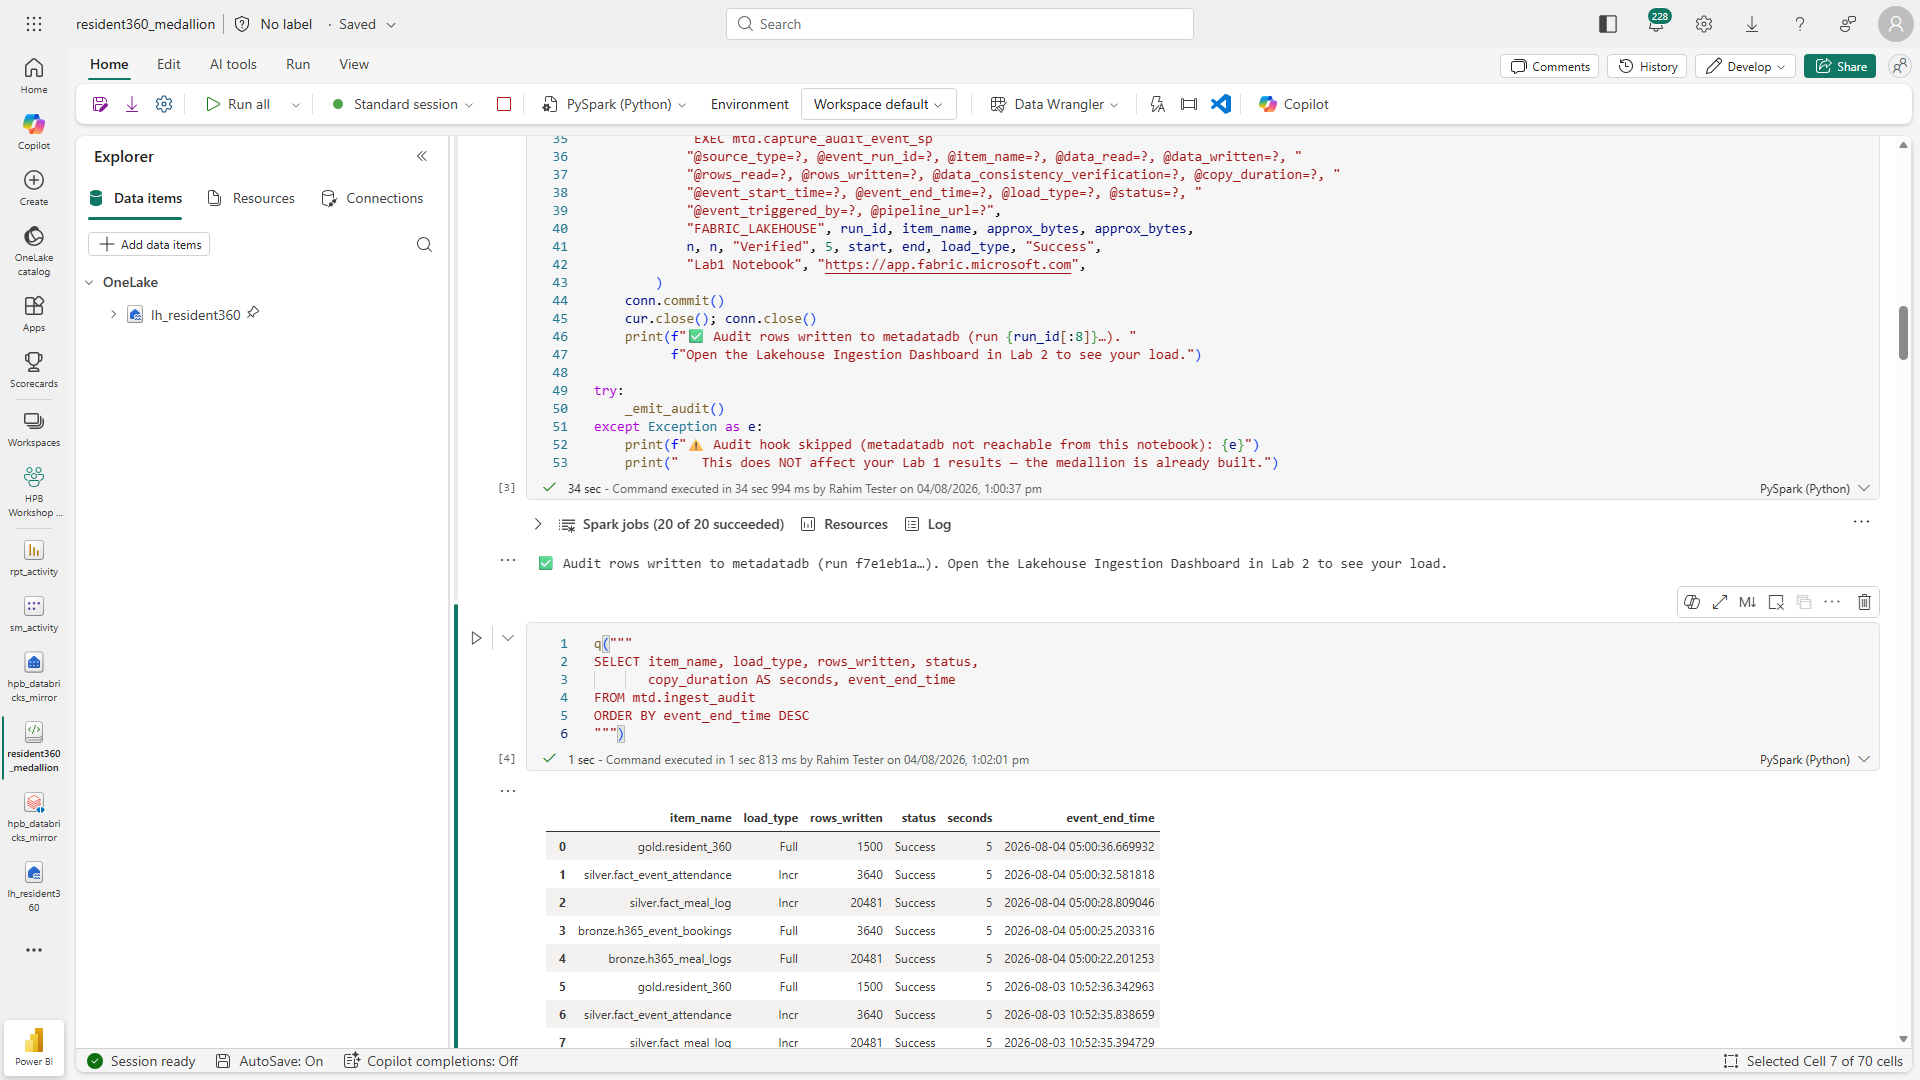
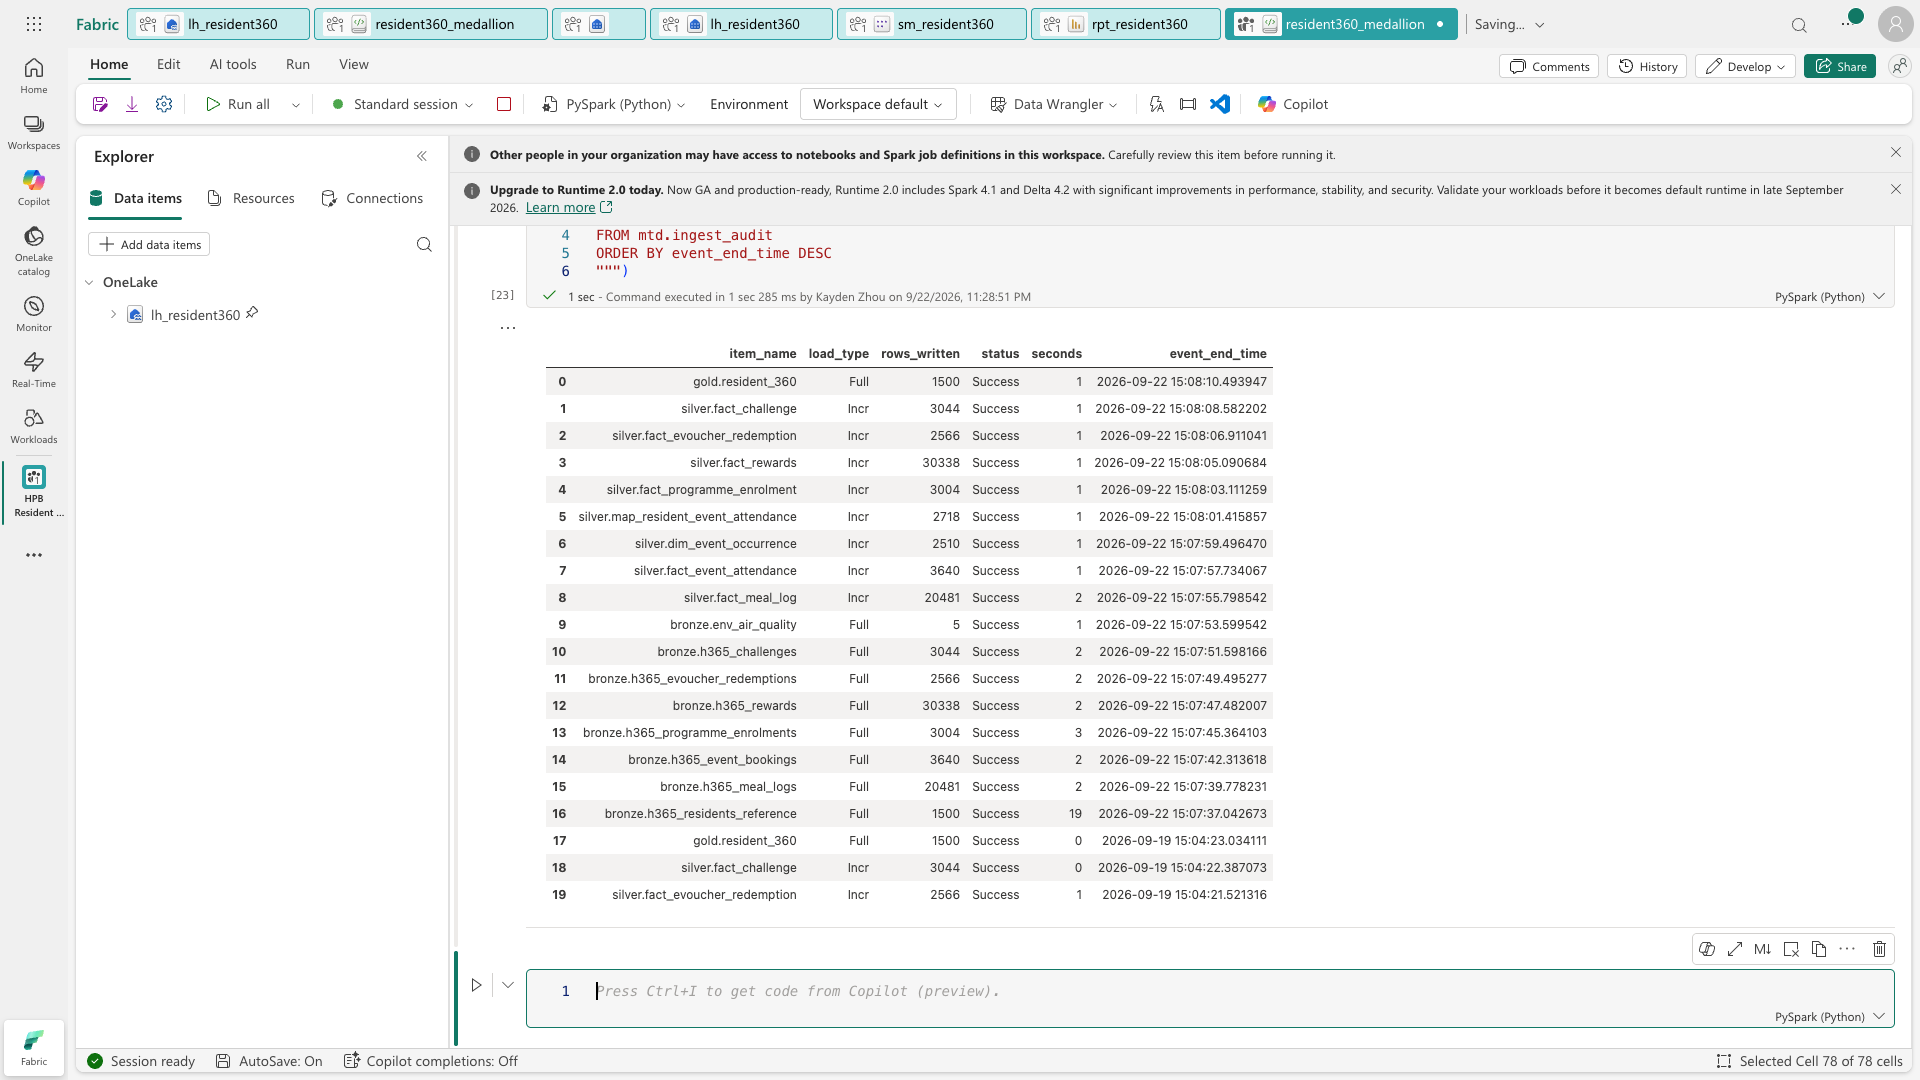
docs(lab2): recapture as participant; remove leaked coordinates; cap audit read
All four Lab 2 notebook/lineage images are recaptured end to end as the
participant account. The replaced set was from the predecessor's workspace:
every one carried "Command executed ... by Rahim Tester on 04/08/2026".

SECURITY: the replaced lab2-02-read-control.png showed a live Fabric SQL
hostname and database GUID in plain text, in this public repo. The kit's
own tests forbid those values in the asset files, but the guard covers .py
files and not screenshots, so the image walked straight past it. Captures
are now framed to keep the connection block above the fold. The old blob
remains in git history and is being handled separately.

Task 3's audit read now uses TOP 20. mtd.ingest_audit is the HUB's table:
it accumulates load events from every spoke, so on the day it holds ~20
participants' runs plus the facilitator's preflight. Unfiltered it returned
hundreds of rows with the participant's own load buried, which made the
guide's "find the row for gold.resident_360" impractical. The note explains
why, and how to filter to your own run id.

Copilot-Session: 85c177c5-2f1b-410d-88d1-68692b45b3ee

diff --git a/lab2-metadata-lakehouse/README.md b/lab2-metadata-lakehouse/README.md
@@ -130,7 +130,7 @@ Now make your transform **report** each run into the framework.
 
    ```python
    q("""
-   SELECT item_name, load_type, rows_written, status,
+   SELECT TOP 20 item_name, load_type, rows_written, status,
           copy_duration AS seconds, event_end_time
    FROM mtd.ingest_audit
    ORDER BY event_end_time DESC
@@ -139,6 +139,13 @@ Now make your transform **report** each run into the framework.
 
 2. Each row is one **traceable** load event: which table, how many rows, success/failure, how long, and when.
 3. Find the row for **`gold.resident_360`** — that's your unified view's load, now on the record.
+
+   > **Why `TOP 20`?** `mtd.ingest_audit` is the *hub's* table: it holds every load event from
+   > **every** spoke — all ~20 participants — plus every previous run and the facilitator's
+   > preflight. Without `TOP 20` this returns hundreds of rows and your own run is buried.
+   > Because the sort is newest-first, the rows your audit hook just wrote are at the top.
+   > Your hook printed a short run id (`✅ Audit hook completed (run abc12345)`) — if you want to
+   > see only your own load, add `WHERE event_run_id LIKE 'abc12345%'` using **your** id.
 
 ![Reading the mtd.ingest_audit table from the notebook — your latest run tops the list with gold.resident_360 at 1500 rows and the status reported by the audit hook.](../docs/images/lab2/lab2-03-read-audit.png)
 
